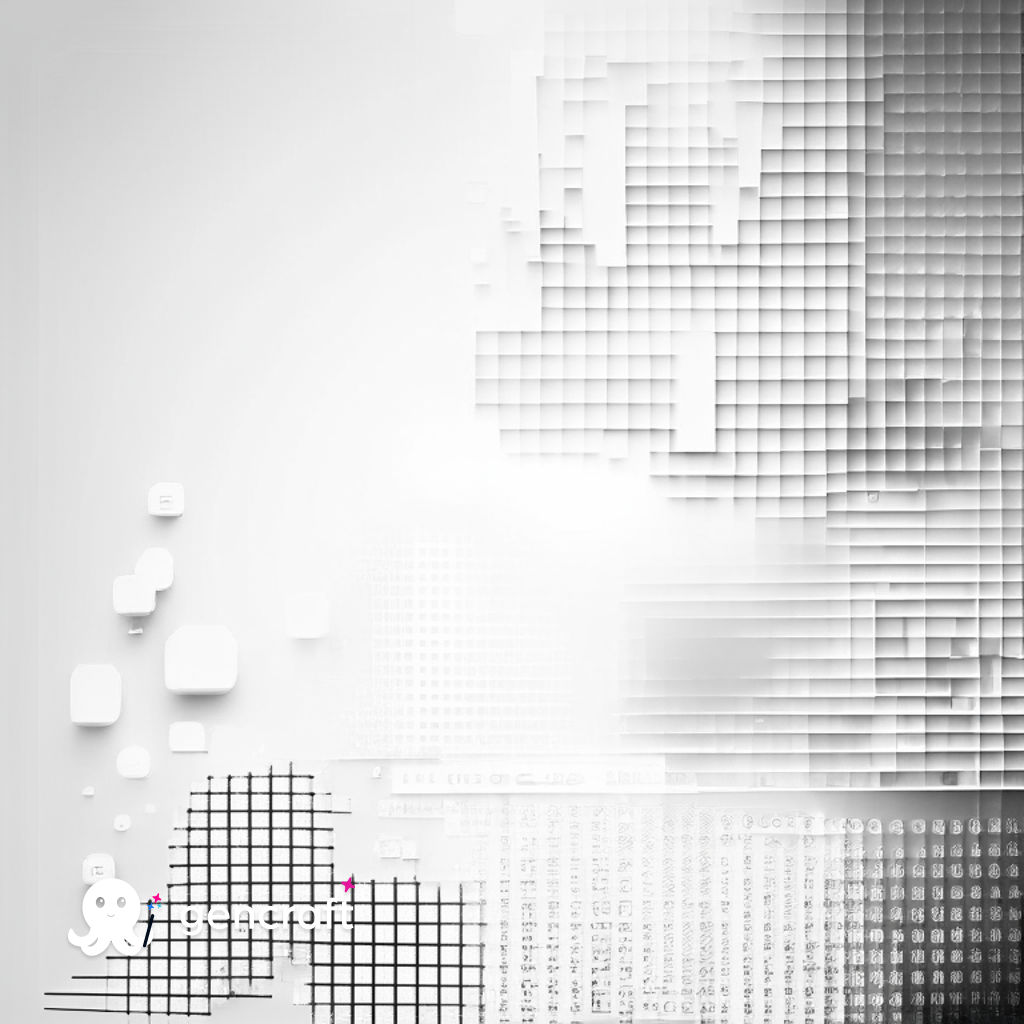
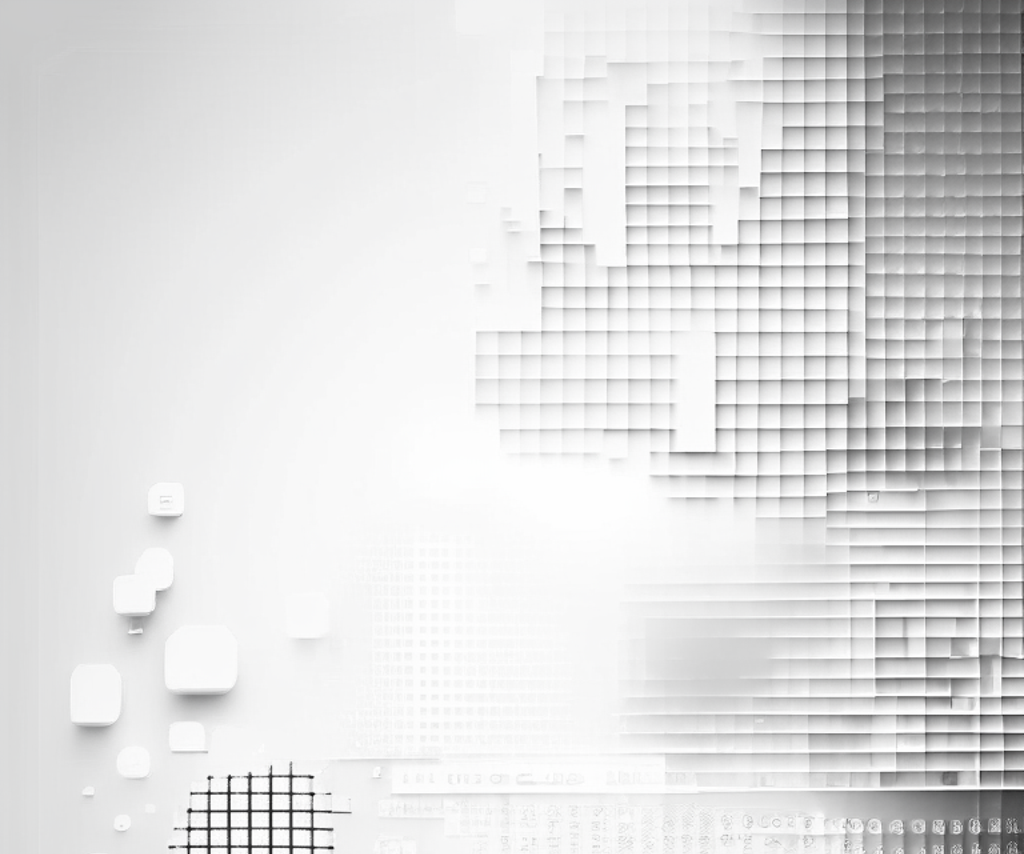
corrections imgs and background

diff --git a/src/app/about/about.component.html b/src/app/about/about.component.html
@@ -20,22 +20,22 @@
                     <div class="col-lg-6">
                       <ul>
                         <li><i class="bi bi-chevron-right"></i> <strong>Birthday:</strong> <span>30 oct</span></li>
-                        <li><i class="bi bi-chevron-right"></i> <strong>Website:</strong> <span>www.example.com</span></li>
                         <li><i class="bi bi-chevron-right"></i> <strong>City:</strong> <span>Tachira, Venezuela</span></li>
+                        <li><i class="bi bi-chevron-right"></i> <strong>Age:</strong> <span>20</span></li>
                       </ul>
                     </div>
                     <div class="col-lg-6">
                       <ul>
-                        <li><i class="bi bi-chevron-right"></i> <strong>Age:</strong> <span>20</span></li>
-                        <li><i class="bi bi-chevron-right"></i> <strong>Email:</strong> <span>email@example.com</span></li>
+
+                        <li><i class="bi bi-chevron-right"></i> <strong>Email:</strong> <span>anereo03@gmail.com</span></li>
                         <li><i class="bi bi-chevron-right"></i> <strong>Freelance:</strong> <span>Available</span></li>
                       </ul>
                     </div>
                   </div>
                   <b>Languages:</b>
                   <p>English and Spanish</p>
-                    <app-button-skill text="DONWLOAD CV" link=""></app-button-skill>
-                    <app-button-skill text="Check Portfolio" link=""></app-button-skill>
+                    <app-button-skill text="DOWNLOAD CV" link="https://drive.google.com/file/d/1mainJObTT-f0Cpxi00dnKaeBvnCv2UDz/view?usp=sharing"></app-button-skill>
+                    <app-button-skill text="PORTFOLIO" link="https://github.com/Axogel?tab=repositories"></app-button-skill>
                 </div>
               </div>
       
@@ -70,15 +70,19 @@
               <h2>Skills</h2>
             </div>
  
-            <div class="" style="width: 100%;">
-                <div class="row container d-flex flex-wrap justify-content-center " >
-                  <div *ngFor="let item of imgs" class="col-5 col-md-4 col-lg-2 item image-container" [style.backgroundImage]="'url(' + item.url + ')'">
-                    <div class="contentSkill">
-                      <b class="text-center text-light">{{item.name}}</b>
-                    </div>  
+            <div class="container">
+              <div class="row justify-content-center">
+                <div *ngFor="let item of imgs" class="col-6 col-md-3 col-lg-2 mb-4">
+                  <div class="item image-container text-center justify-content-center">
+                    <i class="{{item.url}} icon"></i>
+                    <div class="content">
+                      <b class="text-center">{{item.name}}</b>
+                    </div>
                   </div>
                 </div>
+              </div>
             </div>
+            
 
           </div>
         

diff --git a/src/app/home/home.component.html b/src/app/home/home.component.html
@@ -1,16 +1,15 @@
-<section style="padding: 0;">
-    <section id="hero" class="d-flex flex-column justify-content-center" style="background: url('./../assets/img/fondop.png'); background-repeat: no-repeat; background-size: 100vw;">
+<section class="backgroundHome" style="   background: url('./../assets/img/fondop.png'); 
+padding: 0; background-repeat: no-repeat;">
+    <section id="hero" class="d-flex flex-column justify-content-center" >
       <div class="container text-dark container-home" >
         <h1>
           Angel Molina
         </h1>
         <p>I'm  <span class="typed-text"></span></p>
         <div class="social-links">
-          <a href="#" class="facebook"><i class="bx bxl-facebook"></i></a>
-          <a href="#" class="instagram"><i class="bx bxl-instagram"></i></a>
-          <a href="#" class="instagram"><i class="bx bxl-github"></i></a>
 
-          <a href="https://www.linkedin.com/in/angel-molina-ortiz-363013272/" class="linkedin"><i class="bx bxl-linkedin"></i></a>
+          <a href="#" class="instagram"><i class="fa-brands fa-square-github"></i></a>
+          <a href="https://www.linkedin.com/in/angel-molina-ortiz-363013272/" class="linkedin"><i class="fa-brands fa-linkedin"></i></a>
         </div>
       </div>
     </section>

diff --git a/src/app/about/about.component.ts b/src/app/about/about.component.ts
@@ -15,36 +15,44 @@ export class AboutComponent {
   imgs= [
     {
       name: 'HTML',
-      url: `${this.urlImg}html.jpg`,
+      url: `fa-brands fa-html5`,
     },
     {
       name: 'CSS',
-      url: `${this.urlImg}css.jpg`,
+      url: `fa-brands fa-css3-alt`,
     },
     {
       name: 'JavaScript',
-      url: `${this.urlImg}javascript.png`,
+      url: `fa-brands fa-square-js`,
     },
     {
       name: 'Angular',
-      url: `${this.urlImg}angular.jpg`,
+      url: `fa-brands fa-angular`,
     },
     {
       name: 'PHP',
-      url: `${this.urlImg}OIP4.jpg`,
+      url: `fa-brands fa-php`,
     },
     {
       name: 'LARAVEL',
-      url: `${this.urlImg}laravel.png`,
+      url: `fa-brands fa-laravel`,
     },
     {
       name: 'BOOTSTRAP',
-      url: `${this.urlImg}bootstrap.jpg`,
+      url: `fa-brands fa-bootstrap`,
     },
     {
       name: 'MySQL',
-      url: `${this.urlImg}mysql.jpg`,
+      url: `fa-solid fa-database`,
     },
+    {
+      name: 'Vue',
+      url: 'fa-brands fa-vuejs',
+    },
+    {
+      name: 'Python',
+      url: 'fa-brands fa-python',
+    }
   ];
   
 }

diff --git a/src/app/about/about.component.css b/src/app/about/about.component.css
@@ -2,16 +2,15 @@
   padding-left: 7rem !important;
 }
 .image-container {
-  margin: 20px;
-  width: 120px ;
-  height: 120px;
+  width: 110px ;
+  height: 110px;
   border-radius: 1000px;
   background-size: cover;
   background-repeat: no-repeat;
   padding: 0;
   border-radius: 5px;
   background-size: auto;
-  box-shadow: 3px 5px 5px rgba(3, 32, 51, .8);
+  box-shadow: 1px 2px 3px rgba(3, 32, 51, .8);
   overflow: hidden;
 }
 
@@ -26,13 +25,34 @@
   opacity: 0;
   transition: .5s;
 }
-.image-container:hover .contentSkill {
+.contentSkill:hover .icon {
   opacity: 1;
 }
 .img-fluid{
   border-radius: 20%;
   max-width: 85%;
 }
+.icon-container {
+  width: 100%;
+  height: 100%;
+  display: flex;
+  align-items: center;
+  justify-content: center;
+  background-color: transparent; /* Fondo transparente */
+}
+.icon {
+  font-size: 100px;
+  display: flex;
+  align-items: center;
+  justify-content: center;
+  width: 100%;
+  height: 100%;
+  z-index: 20;
+  color: var(--color-primary);
+}
+
+
+
 @media only screen and (max-width: 900px) {
   .resume{
     padding-left: 10% !important;

diff --git a/src/app/home/home.component.css b/src/app/home/home.component.css
@@ -4,16 +4,22 @@
     align-items: center;
     height: 200px;
   }
+  .backgroundHome{
   
+     background-size: 100vw !important;
+  }
   .typed-element {
     font-size: 24px;
   }
   @media only screen and (max-width: 900px) {
-    .container-home{
-      position: relative;
-      top: 150px;
+    .backgroundHome{
+       background-size: 120vh !important;
     }
     #resume{
       padding: 0;
+    }
+    .social-links{
+      position: relative;
+      top: 100px;
     }
   }

diff --git a/src/index.html b/src/index.html
@@ -9,5 +9,6 @@
 </head>
 <body>
   <app-root></app-root>
+  <script src="https://kit.fontawesome.com/aae2170168.js" crossorigin="anonymous"></script>
 </body>
 </html>
